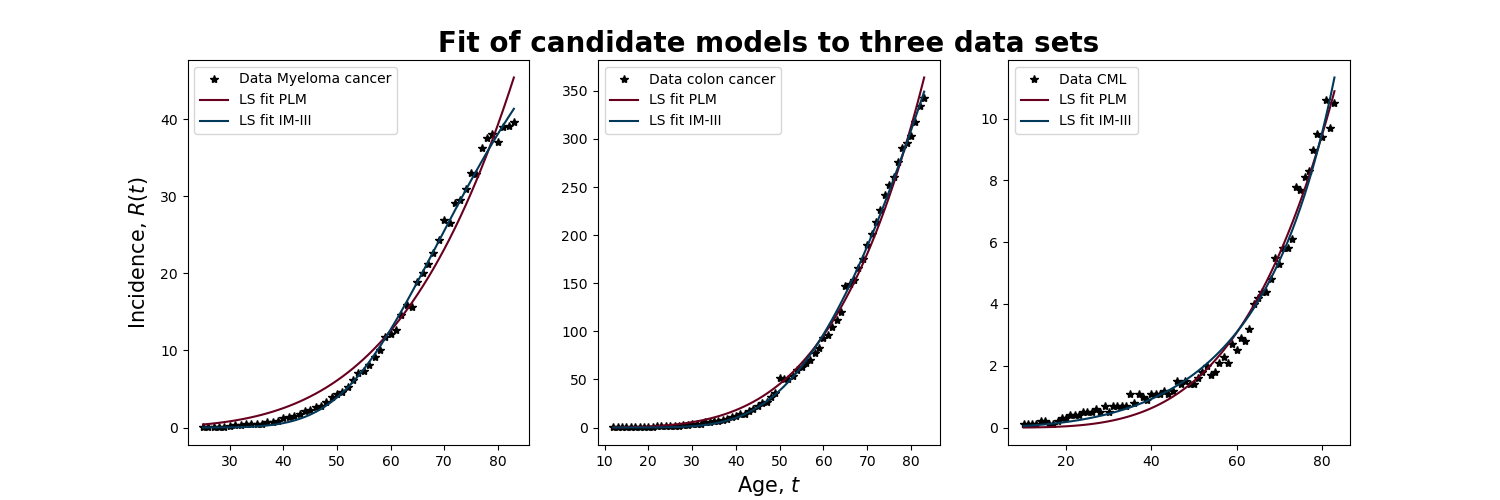
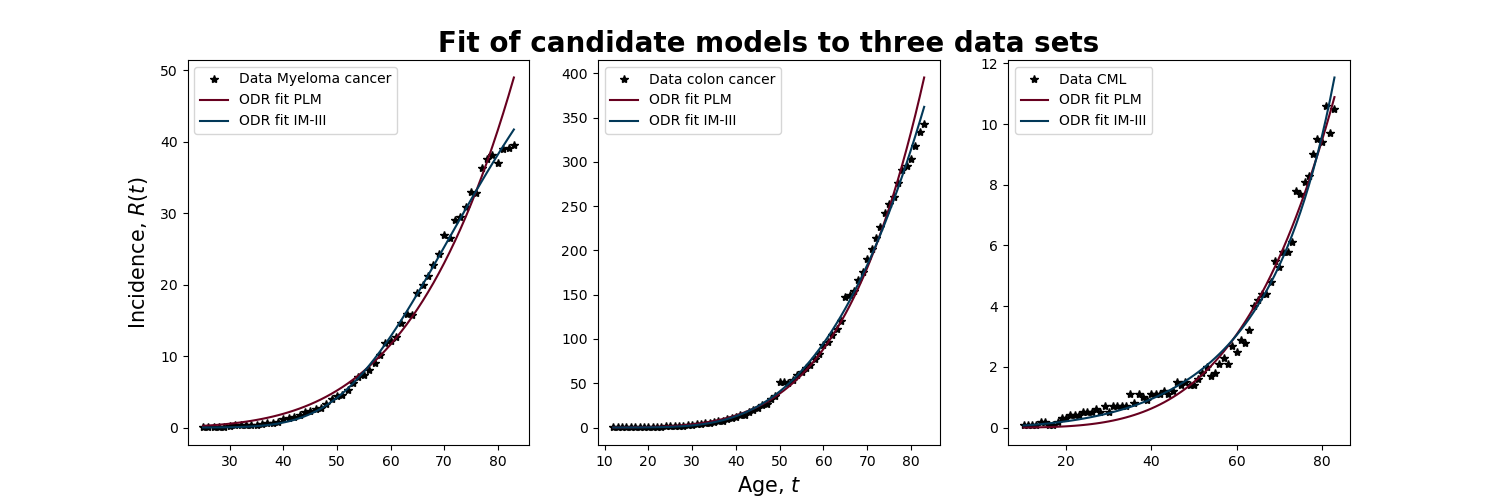
Update so that we work with ODR instead

diff --git a/Code/symmetry_based_model_selection.py b/Code/symmetry_based_model_selection.py
@@ -44,34 +44,34 @@ R_CML = np.array(list(R_CML[9:len(R_CML)-1]))
 # =================================================================================
 #----------------------------------------------------------------------------------
 #----------------------------------------------------------------------------------
-# STANDARD LEAST SQUARE (LS) FITTING
+# Orthonal Distance Regression (ODR)
 #----------------------------------------------------------------------------------
 #----------------------------------------------------------------------------------
 # MYELOMA DATA
 # PLM 
-PLM_fitted_to_myeloma_LS, R_hat_PLM_myeloma_LS, RMS_PLM_myeloma_LS  = fit_to_data.PE_risk_profiles(t_myeloma,R_myeloma,"PLM","LS",[])
-write_output.save_data_PE("myeloma", "PLM", PLM_fitted_to_myeloma_LS, RMS_PLM_myeloma_LS, "LS")
+PLM_fitted_to_myeloma_ODR, R_hat_PLM_myeloma_ODR, RMS_PLM_myeloma_ODR  = fit_to_data.PE_risk_profiles(t_myeloma,R_myeloma,"PLM","ODR",[])
+write_output.save_data_PE("myeloma", "PLM", PLM_fitted_to_myeloma_ODR, RMS_PLM_myeloma_ODR, "ODR")
 # IM-III
-IM_III_fitted_to_myeloma_LS, R_hat_IM_III_myeloma_LS, RMS_IM_III_myeloma_LS = fit_to_data.PE_risk_profiles(t_myeloma,R_myeloma,"IM-III","LS",[])
-write_output.save_data_PE("myeloma", "IM-III", IM_III_fitted_to_myeloma_LS, RMS_IM_III_myeloma_LS, "LS")
+IM_III_fitted_to_myeloma_ODR, R_hat_IM_III_myeloma_ODR, RMS_IM_III_myeloma_ODR = fit_to_data.PE_risk_profiles(t_myeloma,R_myeloma,"IM-III","ODR",[])
+write_output.save_data_PE("myeloma", "IM-III", IM_III_fitted_to_myeloma_ODR, RMS_IM_III_myeloma_ODR, "ODR")
 #----------------------------------------------------------------------------------
 #----------------------------------------------------------------------------------
 # COLON CANCER DATA
 # PLM 
-PLM_fitted_to_colon_LS, R_hat_PLM_colon_LS, RMS_PLM_colon_LS  = fit_to_data.PE_risk_profiles(t_colon,R_colon,"PLM","LS",[])
-write_output.save_data_PE("colon", "PLM", PLM_fitted_to_colon_LS, RMS_PLM_colon_LS, "LS")
+PLM_fitted_to_colon_ODR, R_hat_PLM_colon_ODR, RMS_PLM_colon_ODR  = fit_to_data.PE_risk_profiles(t_colon,R_colon,"PLM","ODR",[])
+write_output.save_data_PE("colon", "PLM", PLM_fitted_to_colon_ODR, RMS_PLM_colon_ODR, "ODR")
 # IM-III
-IM_III_fitted_to_colon_LS, R_hat_IM_III_colon_LS, RMS_IM_III_colon_LS = fit_to_data.PE_risk_profiles(t_colon,R_colon,"IM-III","LS",[])
-write_output.save_data_PE("colon", "IM-III", IM_III_fitted_to_colon_LS, RMS_IM_III_colon_LS, "LS")
+IM_III_fitted_to_colon_ODR, R_hat_IM_III_colon_ODR, RMS_IM_III_colon_ODR = fit_to_data.PE_risk_profiles(t_colon,R_colon,"IM-III","ODR",[])
+write_output.save_data_PE("colon", "IM-III", IM_III_fitted_to_colon_ODR, RMS_IM_III_colon_ODR, "ODR")
 #----------------------------------------------------------------------------------
 #----------------------------------------------------------------------------------
 # CML DATA
 # PLM 
-PLM_fitted_to_CML_LS, R_hat_PLM_CML_LS, RMS_PLM_CML_LS  = fit_to_data.PE_risk_profiles(t_CML,R_CML,"PLM","LS",[])
-write_output.save_data_PE("CML", "PLM", PLM_fitted_to_CML_LS, RMS_PLM_CML_LS, "LS")
+PLM_fitted_to_CML_ODR, R_hat_PLM_CML_ODR, RMS_PLM_CML_ODR  = fit_to_data.PE_risk_profiles(t_CML,R_CML,"PLM","ODR",[])
+write_output.save_data_PE("CML", "PLM", PLM_fitted_to_CML_ODR, RMS_PLM_CML_ODR, "ODR")
 # IM-III
-IM_III_fitted_to_CML_LS, R_hat_IM_III_CML_LS, RMS_IM_III_CML_LS = fit_to_data.PE_risk_profiles(t_CML,R_CML,"IM-III","LS",[])
-write_output.save_data_PE("CML", "IM-III", IM_III_fitted_to_CML_LS, RMS_IM_III_CML_LS, "LS")
+IM_III_fitted_to_CML_ODR, R_hat_IM_III_CML_ODR, RMS_IM_III_CML_ODR = fit_to_data.PE_risk_profiles(t_CML,R_CML,"IM-III","ODR",[])
+write_output.save_data_PE("CML", "IM-III", IM_III_fitted_to_CML_ODR, RMS_IM_III_CML_ODR, "ODR")
 
 #----------------------------------------------------------------------------------
 # =================================================================================
@@ -88,18 +88,18 @@ plt.rc('xtick', labelsize=10)    # fontsize of the tick labels
 plt.rc('ytick', labelsize=10)    # fontsize of the tick labels
 # Subplot 1a
 axes[0].plot(t_myeloma, R_myeloma, '*', color='black', label='Data Myeloma cancer')
-axes[0].plot(t_myeloma, R_hat_PLM_myeloma_LS, '-', color = (103/256,0/256,31/256),label='LS fit PLM')
-axes[0].plot(t_myeloma, R_hat_IM_III_myeloma_LS, '-', color = (2/256,56/256,88/256),label='LS fit IM-III')
+axes[0].plot(t_myeloma, R_hat_PLM_myeloma_ODR, '-', color = (103/256,0/256,31/256),label='ODR fit PLM')
+axes[0].plot(t_myeloma, R_hat_IM_III_myeloma_ODR, '-', color = (2/256,56/256,88/256),label='ODR fit IM-III')
 axes[0].legend()
 # Subplot 2a
 axes[1].plot(t_colon, R_colon, '*', color='black', label='Data colon cancer')
-axes[1].plot(t_colon, R_hat_PLM_colon_LS, '-', color = (103/256,0/256,31/256),label='LS fit PLM')
-axes[1].plot(t_colon, R_hat_IM_III_colon_LS, '-', color = (2/256,56/256,88/256),label='LS fit IM-III')
+axes[1].plot(t_colon, R_hat_PLM_colon_ODR, '-', color = (103/256,0/256,31/256),label='ODR fit PLM')
+axes[1].plot(t_colon, R_hat_IM_III_colon_ODR, '-', color = (2/256,56/256,88/256),label='ODR fit IM-III')
 axes[1].legend()
 # Subplot 3a
 axes[2].plot(t_CML, R_CML, '*', color='black', label='Data CML')
-axes[2].plot(t_CML, R_hat_PLM_CML_LS, '-', color = (103/256,0/256,31/256),label='LS fit PLM')
-axes[2].plot(t_CML, R_hat_IM_III_CML_LS, '-', color = (2/256,56/256,88/256),label='LS fit IM-III')
+axes[2].plot(t_CML, R_hat_PLM_CML_ODR, '-', color = (103/256,0/256,31/256),label='ODR fit PLM')
+axes[2].plot(t_CML, R_hat_IM_III_CML_ODR, '-', color = (2/256,56/256,88/256),label='ODR fit IM-III')
 axes[2].legend()
 # add a big axis, hide frame
 fig.add_subplot(111, frameon=False)
@@ -125,23 +125,23 @@ write_output.plot_LaTeX_2D(t_colon,R_colon,"../Figures/latex_figures/fit_of_mode
 write_output.plot_LaTeX_2D(t_CML,R_CML,"../Figures/latex_figures/fit_of_models_to_cancer_data/Input/CML.tex","only marks, mark=halfcircle*,mark size=1.5pt,color=black,","Data Chronic Myeloid Leukemia (CML)")
 #----------------------------------------------------------------------------------
 #----------------------------------------------------------------------------------
-# STANDARD LEAST SQUARE (LS) FITTING
+# Orthogonal Distance Regression (ODR)
 #----------------------------------------------------------------------------------
 #----------------------------------------------------------------------------------
 # PLOT PLM
 # Myeloma
-write_output.plot_LaTeX_2D(t_myeloma,R_hat_PLM_myeloma_LS,"../Figures/latex_figures/fit_of_models_to_cancer_data/Input/myeloma.tex","color=pow_1,line width=2pt,","PLM")
+write_output.plot_LaTeX_2D(t_myeloma,R_hat_PLM_myeloma_ODR,"../Figures/latex_figures/fit_of_models_to_cancer_data/Input/myeloma.tex","color=pow_1,line width=2pt,","PLM")
 # Colon cancer
-write_output.plot_LaTeX_2D(t_colon,R_hat_PLM_colon_LS,"../Figures/latex_figures/fit_of_models_to_cancer_data/Input/colon.tex","color=pow_1,line width=2pt,","PLM")
+write_output.plot_LaTeX_2D(t_colon,R_hat_PLM_colon_ODR,"../Figures/latex_figures/fit_of_models_to_cancer_data/Input/colon.tex","color=pow_1,line width=2pt,","PLM")
 # CML
-write_output.plot_LaTeX_2D(t_CML,R_hat_PLM_CML_LS,"../Figures/latex_figures/fit_of_models_to_cancer_data/Input/CML.tex","color=pow_1,line width=2pt,","PLM")
+write_output.plot_LaTeX_2D(t_CML,R_hat_PLM_CML_ODR,"../Figures/latex_figures/fit_of_models_to_cancer_data/Input/CML.tex","color=pow_1,line width=2pt,","PLM")
 # PLOT IM-III
 # Myeloma
-write_output.plot_LaTeX_2D(t_myeloma,R_hat_IM_III_myeloma_LS,"../Figures/latex_figures/fit_of_models_to_cancer_data/Input/myeloma.tex","color=mixed_1,line width=2pt,","IM-III")
+write_output.plot_LaTeX_2D(t_myeloma,R_hat_IM_III_myeloma_ODR,"../Figures/latex_figures/fit_of_models_to_cancer_data/Input/myeloma.tex","color=mixed_1,line width=2pt,","IM-III")
 # Colon cancer
-write_output.plot_LaTeX_2D(t_colon,R_hat_IM_III_colon_LS,"../Figures/latex_figures/fit_of_models_to_cancer_data/Input/colon.tex","color=mixed_1,line width=2pt,","IM-III")
+write_output.plot_LaTeX_2D(t_colon,R_hat_IM_III_colon_ODR,"../Figures/latex_figures/fit_of_models_to_cancer_data/Input/colon.tex","color=mixed_1,line width=2pt,","IM-III")
 # CML
-write_output.plot_LaTeX_2D(t_CML,R_hat_IM_III_CML_LS,"../Figures/latex_figures/fit_of_models_to_cancer_data/Input/CML.tex","color=mixed_1,line width=2pt,","IM-III")
+write_output.plot_LaTeX_2D(t_CML,R_hat_IM_III_CML_ODR,"../Figures/latex_figures/fit_of_models_to_cancer_data/Input/CML.tex","color=mixed_1,line width=2pt,","IM-III")
 #----------------------------------------------------------------------------------
 #----------------------------------------------------------------------------------
 #----------------------------------------------------------------------------------
@@ -153,9 +153,9 @@ t_sym = np.linspace(0,t_myeloma[len(t_myeloma)-1],200)
 #----------------------------------------------------------------------------------
 #----------------------------------------------------------------------------------
 # THE PLM
-R_hat_PLM_original = np.array([fit_to_data.objective_PLM(PLM_fitted_to_myeloma_LS.beta,t_sym[index]) for index in range(len(t_sym))])
+R_hat_PLM_original = np.array([fit_to_data.objective_PLM(PLM_fitted_to_myeloma_ODR.beta,t_sym[index]) for index in range(len(t_sym))])
 # Choose an epsilon
-epsilon = 0.45
+epsilon = 0.40
 # Allocate memory for a list
 R_PLM_trans_1 = []
 t_PLM_trans_1 = []
@@ -164,31 +164,31 @@ index_vector = list(np.linspace(10,len(t_sym)-1,75,dtype=int))
 # Save all the transformed stuff
 for index in index_vector:
     # Transform stuff
-    t_trans,R_trans = symmetry_toolbox.PLM_transformation(t_sym[index],R_hat_PLM_original[index],epsilon-0.045,PLM_fitted_to_myeloma_LS.beta[1])
+    t_trans,R_trans = symmetry_toolbox.PLM_transformation(t_sym[index],R_hat_PLM_original[index],epsilon-0.045,PLM_fitted_to_myeloma_ODR.beta[1])
     # Save the transformed variables
     R_PLM_trans_1.append(R_trans)
     t_PLM_trans_1.append(t_trans)
 # Transform the original solution
-t_hat_PLM_1,R_hat_PLM_1 = symmetry_toolbox.PLM_transformed_solution(t_sym,R_hat_PLM_original,epsilon,PLM_fitted_to_myeloma_LS.beta[0],PLM_fitted_to_myeloma_LS.beta[1])
+t_hat_PLM_1,R_hat_PLM_1 = symmetry_toolbox.PLM_transformed_solution(t_sym,R_hat_PLM_original,epsilon,PLM_fitted_to_myeloma_ODR.beta[0],PLM_fitted_to_myeloma_ODR.beta[1])
 # Allocate memory for a list
 R_PLM_trans_2 = []
 t_PLM_trans_2 = []
 # Save all the transformed stuff
 for index in index_vector:
     # Transform stuff
-    t_trans,R_trans = symmetry_toolbox.PLM_transformation(t_hat_PLM_1[index],R_hat_PLM_1[index],epsilon-0.045,PLM_fitted_to_myeloma_LS.beta[1])
+    t_trans,R_trans = symmetry_toolbox.PLM_transformation(t_hat_PLM_1[index],R_hat_PLM_1[index],epsilon-0.045,PLM_fitted_to_myeloma_ODR.beta[1])
     # Save the transformed variables
     R_PLM_trans_2.append(R_trans)
     t_PLM_trans_2.append(t_trans)
 # Transform the transformed solution
-t_hat_PLM_2,R_hat_PLM_2 = symmetry_toolbox.PLM_transformed_solution(t_hat_PLM_1,R_hat_PLM_1,epsilon,PLM_fitted_to_myeloma_LS.beta[0],PLM_fitted_to_myeloma_LS.beta[1])
+t_hat_PLM_2,R_hat_PLM_2 = symmetry_toolbox.PLM_transformed_solution(t_hat_PLM_1,R_hat_PLM_1,epsilon,PLM_fitted_to_myeloma_ODR.beta[0],PLM_fitted_to_myeloma_ODR.beta[1])
 #----------------------------------------------------------------------------------
 #----------------------------------------------------------------------------------
 # THE IM-II
 # Construct a t vector
 t_sym = np.linspace(0,t_myeloma[len(t_myeloma)-1],200)
 # Original solution
-R_hat_IM_III_original = np.array([fit_to_data.objective_IM_III(IM_III_fitted_to_myeloma_LS.beta,t_sym[index]) for index in range(len(t_sym))])
+R_hat_IM_III_original = np.array([fit_to_data.objective_IM_III(IM_III_fitted_to_myeloma_ODR.beta,t_sym[index]) for index in range(len(t_sym))])
 # Allocate memory for a list
 R_IM_III_trans_1 = []
 t_IM_III_trans_1 = []
@@ -197,24 +197,24 @@ index_vector = list(np.linspace(175,len(t_sym)-1,25,dtype=int))
 # Save all the transformed stuff
 for index in index_vector:
     # Transform stuff
-    t_trans,R_trans = symmetry_toolbox.IM_III_transformation(t_sym[index],R_hat_IM_III_original[index],epsilon-0.045,IM_III_fitted_to_myeloma_LS.beta[1],0.044)
+    t_trans,R_trans = symmetry_toolbox.IM_III_transformation(t_sym[index],R_hat_IM_III_original[index],epsilon-0.045,IM_III_fitted_to_myeloma_ODR.beta[1],0.044)
     # Save the transformed variables
     R_IM_III_trans_1.append(R_trans)
     t_IM_III_trans_1.append(t_trans)
 # Transform the original solution
-t_hat_IM_III_1,R_hat_IM_III_1 = symmetry_toolbox.IM_III_transformed_solution(t_sym,R_hat_IM_III_original,epsilon,IM_III_fitted_to_myeloma_LS.beta[0],IM_III_fitted_to_myeloma_LS.beta[1],IM_III_fitted_to_myeloma_LS.beta[2])
+t_hat_IM_III_1,R_hat_IM_III_1 = symmetry_toolbox.IM_III_transformed_solution(t_sym,R_hat_IM_III_original,epsilon,IM_III_fitted_to_myeloma_ODR.beta[0],IM_III_fitted_to_myeloma_ODR.beta[1],IM_III_fitted_to_myeloma_ODR.beta[2])
 # Allocate memory for a list
 R_IM_III_trans_2 = []
 t_IM_III_trans_2 = []
 # Save all the transformed stuff
 for index in index_vector:
     # Transform stuff
-    t_trans,R_trans = symmetry_toolbox.IM_III_transformation(t_hat_IM_III_1[index],R_hat_IM_III_1[index],epsilon-0.045,IM_III_fitted_to_myeloma_LS.beta[1],0.044)
+    t_trans,R_trans = symmetry_toolbox.IM_III_transformation(t_hat_IM_III_1[index],R_hat_IM_III_1[index],epsilon-0.045,IM_III_fitted_to_myeloma_ODR.beta[1],0.044)
     # Save the transformed variables
     R_IM_III_trans_2.append(R_trans)
     t_IM_III_trans_2.append(t_trans)
 # Transform the second solution      
-t_hat_IM_III_2,R_hat_IM_III_2 = symmetry_toolbox.IM_III_transformed_solution(t_hat_IM_III_1,R_hat_IM_III_1,epsilon,IM_III_fitted_to_myeloma_LS.beta[0],IM_III_fitted_to_myeloma_LS.beta[1],IM_III_fitted_to_myeloma_LS.beta[2])
+t_hat_IM_III_2,R_hat_IM_III_2 = symmetry_toolbox.IM_III_transformed_solution(t_hat_IM_III_1,R_hat_IM_III_1,epsilon,IM_III_fitted_to_myeloma_ODR.beta[0],IM_III_fitted_to_myeloma_ODR.beta[1],IM_III_fitted_to_myeloma_ODR.beta[2])
 # =================================================================================
 # =================================================================================
 # Plot the illustration of the model selection framework
